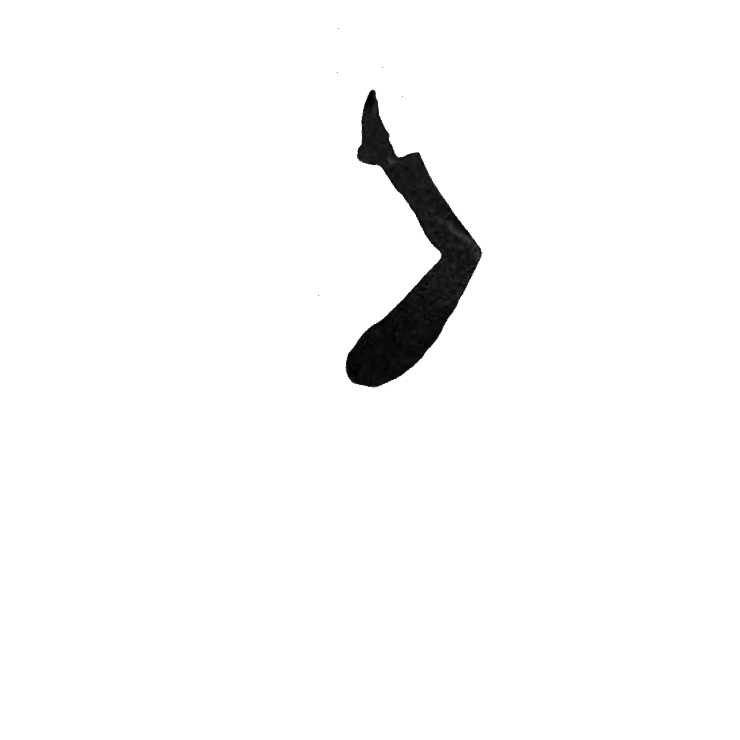
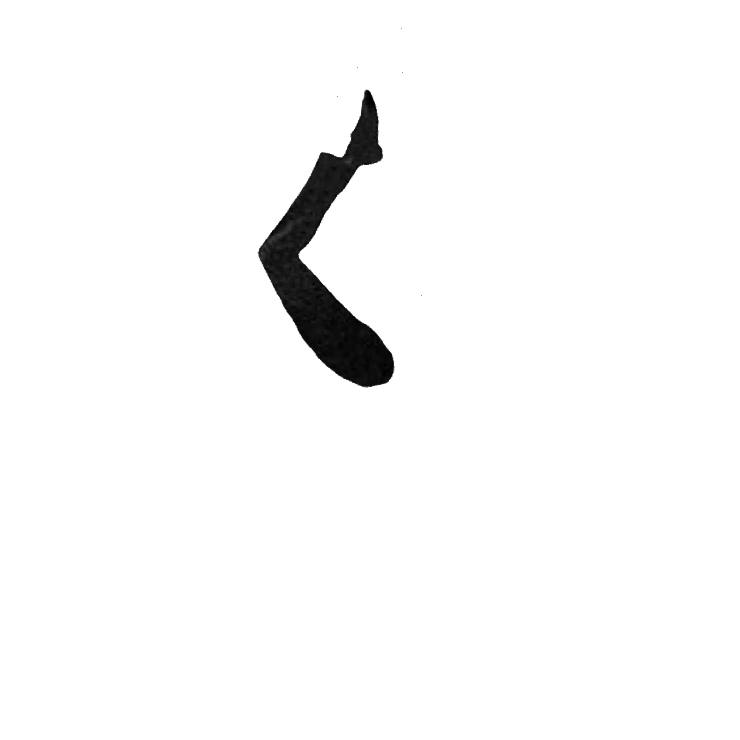
Visual States.

Changed region(s): [[0.3419, 0.1243, 0.6527, 0.5284]]

diff --git a/XamlBrewer.Uwp.Composition.ClockSample/Views/OtherPage.xaml b/XamlBrewer.Uwp.Composition.ClockSample/Views/OtherPage.xaml
@@ -1,30 +1,50 @@
-<Page
-    x:Class="XamlBrewer.Uwp.Composition.ClockSample.OtherPage"
-    xmlns="http://schemas.microsoft.com/winfx/2006/xaml/presentation"
-    xmlns:x="http://schemas.microsoft.com/winfx/2006/xaml"
-    xmlns:local="using:XamlBrewer.Uwp.Composition.ClockSample"
+<Page x:Class="XamlBrewer.Uwp.Composition.ClockSample.OtherPage"
+      xmlns="http://schemas.microsoft.com/winfx/2006/xaml/presentation"
+      xmlns:x="http://schemas.microsoft.com/winfx/2006/xaml"
+      xmlns:local="using:XamlBrewer.Uwp.Composition.ClockSample"
       xmlns:controls="using:XamlBrewer.Uwp.Controls"
       xmlns:d="http://schemas.microsoft.com/expression/blend/2008"
-    xmlns:mc="http://schemas.openxmlformats.org/markup-compatibility/2006"
-    mc:Ignorable="d">
+      xmlns:mc="http://schemas.openxmlformats.org/markup-compatibility/2006"
+      mc:Ignorable="d">
 
     <Grid Background="White">
         <Grid.RowDefinitions>
             <RowDefinition />
-            <RowDefinition x:Name="BottomRow"
-                           Height="0" />
+            <RowDefinition x:Name="BottomRow" />
         </Grid.RowDefinitions>
         <Grid.ColumnDefinitions>
             <ColumnDefinition />
-            <ColumnDefinition x:Name="RightColumn" />
+            <ColumnDefinition x:Name="RightColumn"
+                              Width="0" />
         </Grid.ColumnDefinitions>
-        <controls:ImageClock x:Name="RomanClock"
-                        Margin="20" />
-        <controls:ImageClock x:Name="WithBackground"
-                        Grid.Column="1"
-                        FaceImage="ms-appx:///Assets/designer_face.jpg"
+        <controls:ImageClock Margin="20" />
+        <controls:ImageClock x:Name="SecondClock"
+                             Grid.Row="1"
+                             FaceImage="ms-appx:///Assets/designer_face.jpg"
                              HourHandImage="ms-appx:///Assets/hour_gold.png"
                              MinuteHandImage="ms-appx:///Assets/minute_gold.png"
-                        Margin="20" />
+                             Margin="20" />
+
+        <!-- Responsive Visual States -->
+        <VisualStateManager.VisualStateGroups>
+            <VisualStateGroup>
+                <!-- VisualState to be triggered when window width is >=548 effective pixels -->
+                <VisualState x:Name="Narrow">
+                    <VisualState.StateTriggers>
+                        <AdaptiveTrigger MinWindowWidth="548" />
+                    </VisualState.StateTriggers>
+                    <VisualState.Setters>
+                        <Setter Target="BottomRow.Height"
+                                Value="0" />
+                        <Setter Target="RightColumn.Width"
+                                Value="*" />
+                        <Setter Target="SecondClock.(Grid.Row)"
+                                Value="0" />
+                        <Setter Target="SecondClock.(Grid.Column)"
+                                Value="1" />
+                    </VisualState.Setters>
+                </VisualState>
+            </VisualStateGroup>
+        </VisualStateManager.VisualStateGroups>
     </Grid>
 </Page>

diff --git a/XamlBrewer.Uwp.Composition.ClockSample/Views/MainPage.xaml b/XamlBrewer.Uwp.Composition.ClockSample/Views/MainPage.xaml
@@ -7,22 +7,44 @@
       xmlns:mc="http://schemas.openxmlformats.org/markup-compatibility/2006"
       mc:Ignorable="d">
 
-    <Grid Background="White">
+    <Grid x:Name="Root"
+          Background="White">
         <Grid.RowDefinitions>
             <RowDefinition />
             <RowDefinition x:Name="BottomRow"
-                           Height="0" />
+                            />
         </Grid.RowDefinitions>
         <Grid.ColumnDefinitions>
             <ColumnDefinition />
-            <ColumnDefinition x:Name="RightColumn" />
+            <ColumnDefinition x:Name="RightColumn" Width="0" />
         </Grid.ColumnDefinitions>
-        <controls:Clock x:Name="WithTicks"
-                        Margin="20" />
-        <controls:Clock x:Name="WithBackground"
-                        Grid.Column="1"
+        <controls:Clock Margin="20" />
+        <controls:Clock x:Name="SecondClock"
+                        Grid.Row="1"
                         ShowTicks="False"
                         BackgroundImage="ms-appx:///Assets/modern_face.png"
                         Margin="20" />
+
+        <!-- Responsive Visual States -->
+        <VisualStateManager.VisualStateGroups>
+            <VisualStateGroup>
+                <!-- VisualState to be triggered when window width is >=548 effective pixels -->
+                <VisualState x:Name="Narrow">
+                    <VisualState.StateTriggers>
+                        <AdaptiveTrigger MinWindowWidth="548" />
+                    </VisualState.StateTriggers>
+                    <VisualState.Setters>
+                        <Setter Target="BottomRow.Height"
+                                Value="0" />
+                        <Setter Target="RightColumn.Width"
+                                Value="*" />
+                        <Setter Target="SecondClock.(Grid.Row)"
+                                Value="0" />
+                        <Setter Target="SecondClock.(Grid.Column)"
+                                Value="1" />
+                    </VisualState.Setters>
+                </VisualState>
+            </VisualStateGroup>
+        </VisualStateManager.VisualStateGroups>
     </Grid>
 </Page>

diff --git a/XamlBrewer.Uwp.Composition.ClockSample/Controls/SillyWalkerClock.xaml.cs b/XamlBrewer.Uwp.Composition.ClockSample/Controls/SillyWalkerClock.xaml.cs
@@ -44,52 +44,41 @@ namespace XamlBrewer.Uwp.Controls
             _background = _compositor.CreateSpriteVisual();
             _background.Size = new Vector2(800.0f, 800.0f);
             var _imageFactory = CompositionImageFactory.CreateCompositionImageFactory(_compositor);
-            CompositionImageOptions options = new CompositionImageOptions()
+            var options = new CompositionImageOptions()
             {
                 DecodeWidth = 740,
-                DecodeHeight = 740,
+                DecodeHeight = 740
             };
             var _image = _imageFactory.CreateImageFromUri(FaceImage, options);
             _background.Brush = _compositor.CreateSurfaceBrush(_image.Surface);
             _root.Children.InsertAtTop(_background);
 
             // Hour Hand
+            _hourhand = _compositor.CreateSpriteVisual();
+            _hourhand.Size = new Vector2(800.0f, 800.0f);
             options = new CompositionImageOptions()
             {
                 DecodeWidth = 740,
-                DecodeHeight = 740,
+                DecodeHeight = 740
             };
-
-            _hourhand = _compositor.CreateSpriteVisual();
-            _hourhand.Size = new Vector2(800.0f, 800.0f);
             _image = _imageFactory.CreateImageFromUri(HourHandImage, options);
             _hourhand.Brush = _compositor.CreateSurfaceBrush(_image.Surface);
             _hourhand.Offset = new Vector3(0.0f, 0.0f, 0);
-            _hourhand.CenterPoint = new Vector3(200.0f, 400.0f, 0);
+            _hourhand.CenterPoint = new Vector3(400.0f, 400.0f, 0);
             _root.Children.InsertAtTop(_hourhand);
 
             // Minute Hand
-            options = new CompositionImageOptions()
-            {
-                DecodeWidth = 740,
-                DecodeHeight = 740,
-            };
-            _image = _imageFactory.CreateImageFromUri(MinuteHandImage, options);
             _minutehand = _compositor.CreateSpriteVisual();
             _minutehand.Size = new Vector2(800.0f, 800.0f);
+            _image = _imageFactory.CreateImageFromUri(MinuteHandImage, options);
             _minutehand.Brush = _compositor.CreateSurfaceBrush(_image.Surface);
             _minutehand.Offset = new Vector3(0.0f, 0.0f, 0);
-            _minutehand.CenterPoint = new Vector3(200.0f, 400.0f, 0);
+            _minutehand.CenterPoint = new Vector3(400.0f, 400.0f, 0);
             _root.Children.InsertAtTop(_minutehand);
 
             // Foreground
             _foreground = _compositor.CreateSpriteVisual();
             _foreground.Size = new Vector2(800.0f, 800.0f);
-            options = new CompositionImageOptions()
-            {
-                DecodeWidth = 740,
-                DecodeHeight = 740,
-            };
             _image = _imageFactory.CreateImageFromUri(FrontImage, options);
             _foreground.Brush = _compositor.CreateSurfaceBrush(_image.Surface);
             _root.Children.InsertAtTop(_foreground);
